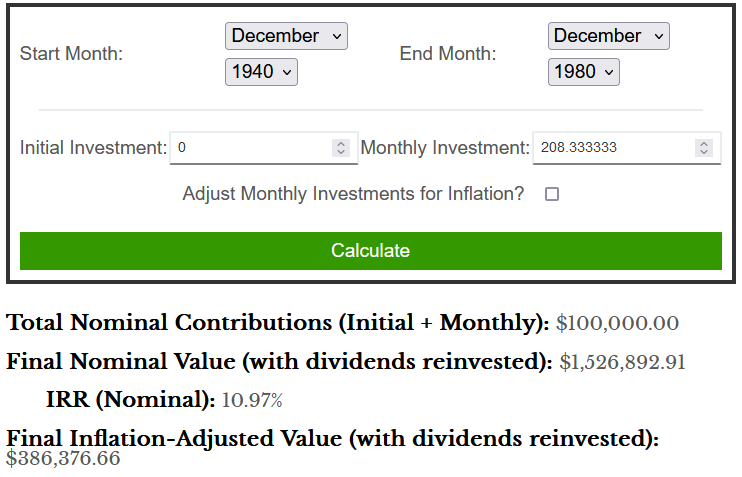
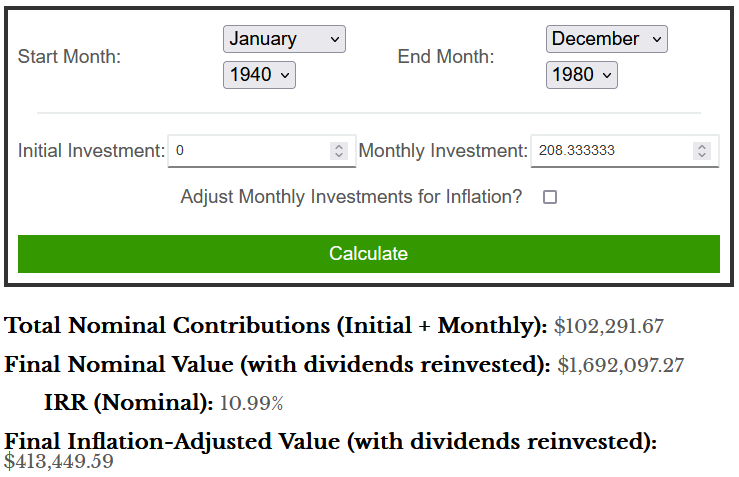
fix docu

diff --git a/README.md b/README.md
@@ -6,7 +6,7 @@ The first analysis of the SP500 is a very simple one: the unitary growth of a DC
 ![40-year DCA investment vs inflation](images/40-year_DCA_investment_vs_inflation.png)
 
 
-For example, if you invested 100,000$ between the years 1940-1980 (208.33$/month), your investment would grow to 1,500,000$  (15x growth), whereas the prices have a 4.5x growth.
+For example, if you invested 100,000$ between the years 1940-1980 (208.33$/month), your investment would grow to 1,700,000$  (17x growth), whereas the prices have a 4.5x growth.
 
 This calculator confirms the results: https://ofdollarsanddata.com/sp500-dca-calculator/.
 ![calculator 1940-1980 DCA investment vs inflation](images/calculator_1940-1980_DCA_investment_vs_inflation.png)
